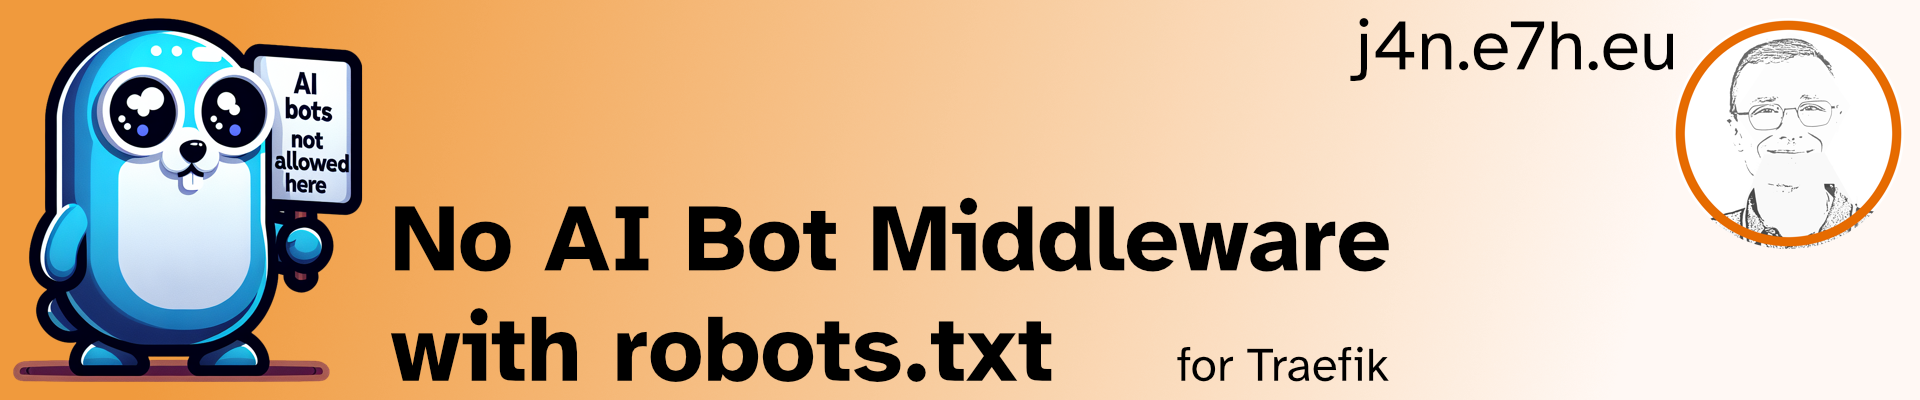
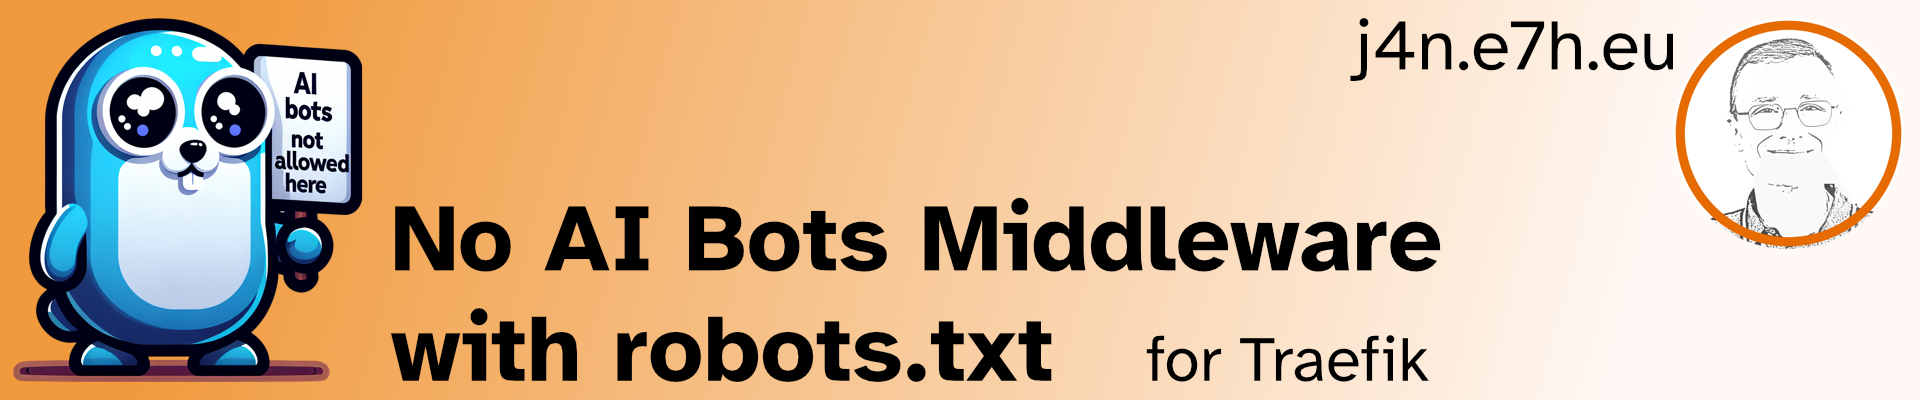
Typos in Plugin Naming

Changed region(s): [[0.4375, 0.48, 0.75, 0.69], [0.5938, 0.84, 0.75, 0.96]]

diff --git a/README.md b/README.md
@@ -1,6 +1,6 @@
-![No AI Bot Middleware with robots.txt for Traefik](./.assets/banner.png)
+![No AI Bots Middleware with robots.txt for Traefik](./.assets/banner.png)
 
-# No AI Bot Middleware with robots.txt
+# No AI Bots Middleware with robots.txt
 
 Repeatedly, bots and crawlers from AI companies generate significant load on web
 applications. The `robots.txt` file is often disregarded, or bots do not consider
